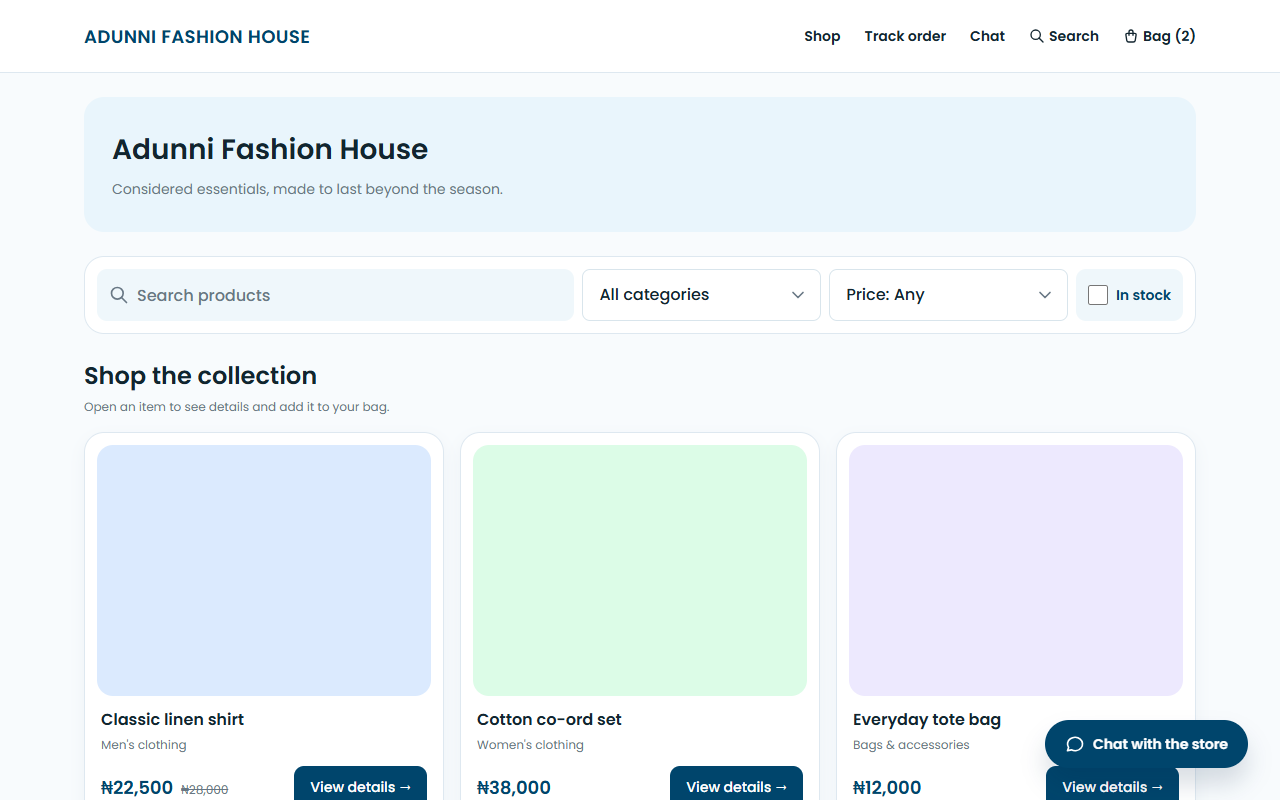
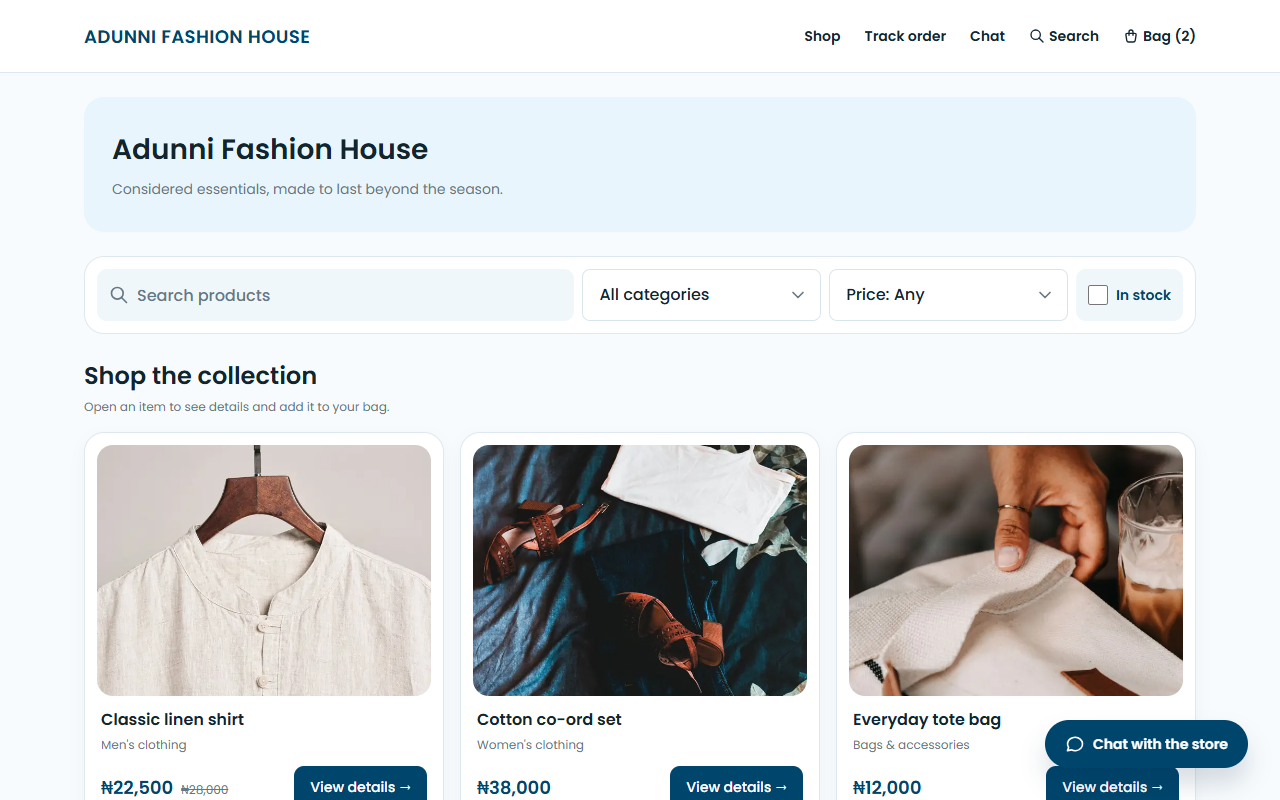
feat(landing): real product photos in the sample store screenshots
Six Pexels product photos (product-only: no faces, no brand marks) replace
the flat colour placeholders in the invented "Adunni Fashion House" store
used for the landing screenshots. Credits with each photo's Pexels URL and
photographer in docs/image-credits.md. The watch and cardholder listings
became a beaded bracelet and leather sandals (their photos showed brand
marks). Screenshots regenerated.

Changed region(s): [[0.0625, 0.5312, 0.9375, 0.875]]

diff --git a/docs/image-credits.md b/docs/image-credits.md
@@ -1,0 +1,40 @@
+# Image credits
+
+## Sample store product photos (Pexels)
+
+Used **only** for the invented "Adunni Fashion House" sample store that appears
+in the landing page screenshots (`scripts/marketing/products/`, loaded by
+`scripts/marketing/sample-business.mjs`, captured by
+`npm run screenshots:marketing`). They are not used anywhere else in the app.
+
+Licence: [Pexels License](https://www.pexels.com/license/) — free to use,
+attribution not required (given here anyway). The licence does not allow
+implying endorsement by people or brands, so only product shots were chosen:
+no recognisable faces and no visible brand names or logos. Downloaded
+15 Nov 2026 at 900 px wide, then cropped to 640×640 and saved as WebP.
+
+| File | Sample product | Pexels photo | Photographer |
+|---|---|---|---|
+| `linen-shirt.webp` | Classic linen shirt | https://www.pexels.com/photo/shirt-on-hanger-on-branch-22441297/ | dayong tien |
+| `co-ord-set.webp` | Cotton co-ord set | https://www.pexels.com/photo/women-s-white-spaghetti-strap-top-and-brown-pumps-1107604/ | Lisa Fotios |
+| `tote-bag.webp` | Everyday tote bag | https://www.pexels.com/photo/woman-using-fabric-shopper-bag-17836626/ | Doğu Tuncer |
+| `beaded-bracelet.webp` | Beaded bracelet | https://www.pexels.com/photo/brown-and-black-beaded-bracelets-on-white-wooden-surface-11185142/ | Alexey Demidov |
+| `leather-sandals.webp` | Leather sandals | https://www.pexels.com/photo/studio-shot-of-three-leather-sandals-in-various-colors-26965818/ | José Martín Segura Benites |
+| `barrel-bag.webp` | Leather barrel bag | https://www.pexels.com/photo/brown-bag-on-white-background-22434773/ | Muneeb Malhotra |
+
+Rejected while choosing (for the record): watch photos showing a maker's name
+on the dial, and leather cardholders with an embossed brand mark — the sample
+store sells a beaded bracelet and leather sandals instead.
+
+## Landing page photos from the Figma design
+
+`src/assets/landing/hero*.webp` (city skyline), `step-*.webp` (3D icons) and
+`collage-*.webp` were supplied in the BiManage Figma file ("Landing Page",
+node 1:12) by the designer; their original source was not recorded in the
+file. Replace them if a source can't be confirmed.
+
+## Product screenshots
+
+`src/assets/landing/screens/*` are screenshots of the BiManage app itself,
+filled with invented sample data (no real accounts, customers or contact
+details).
